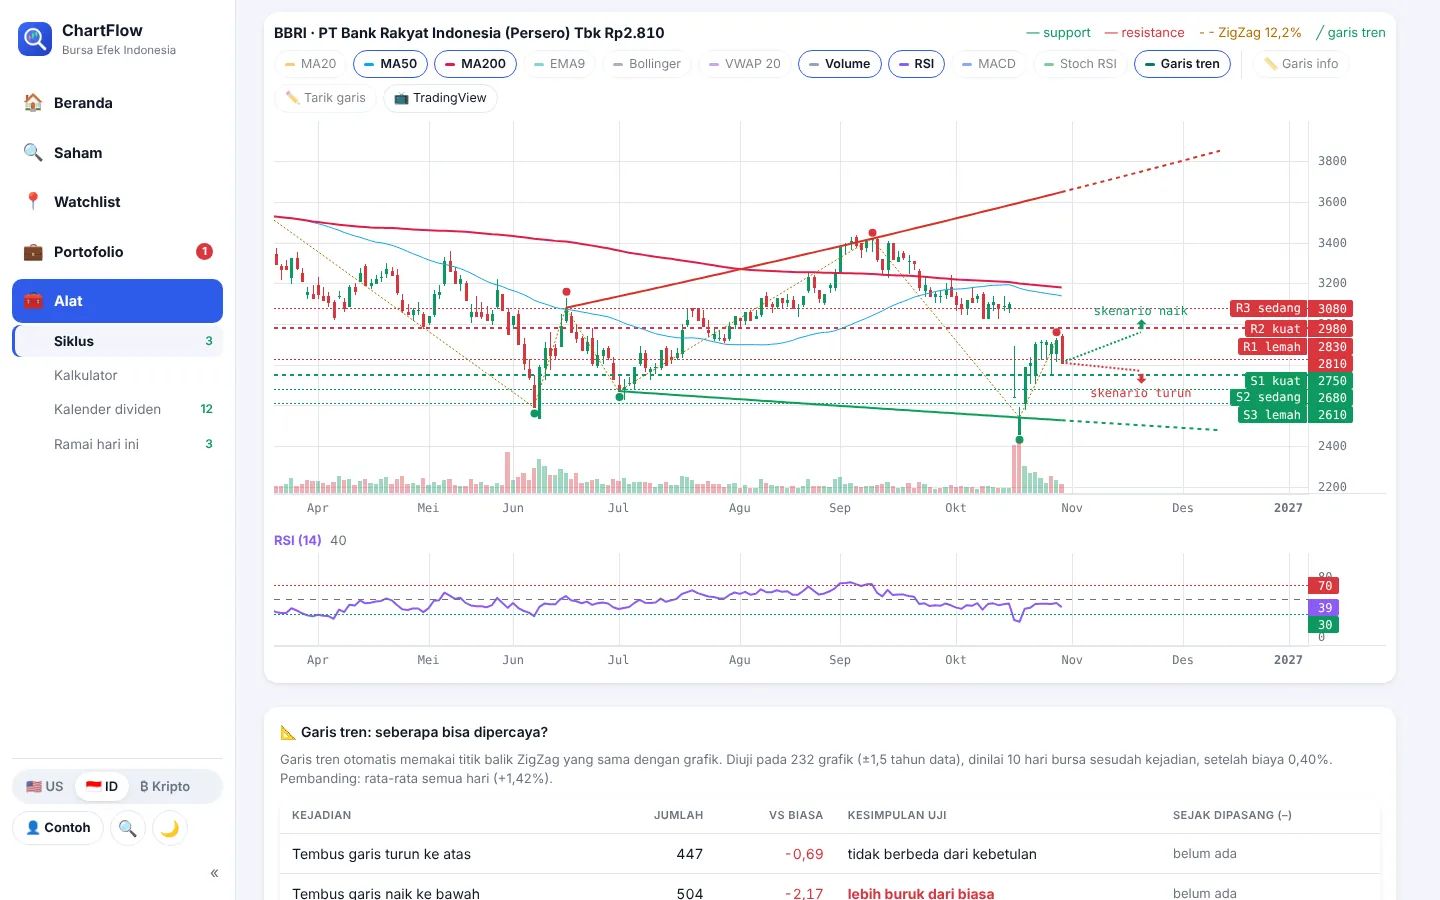
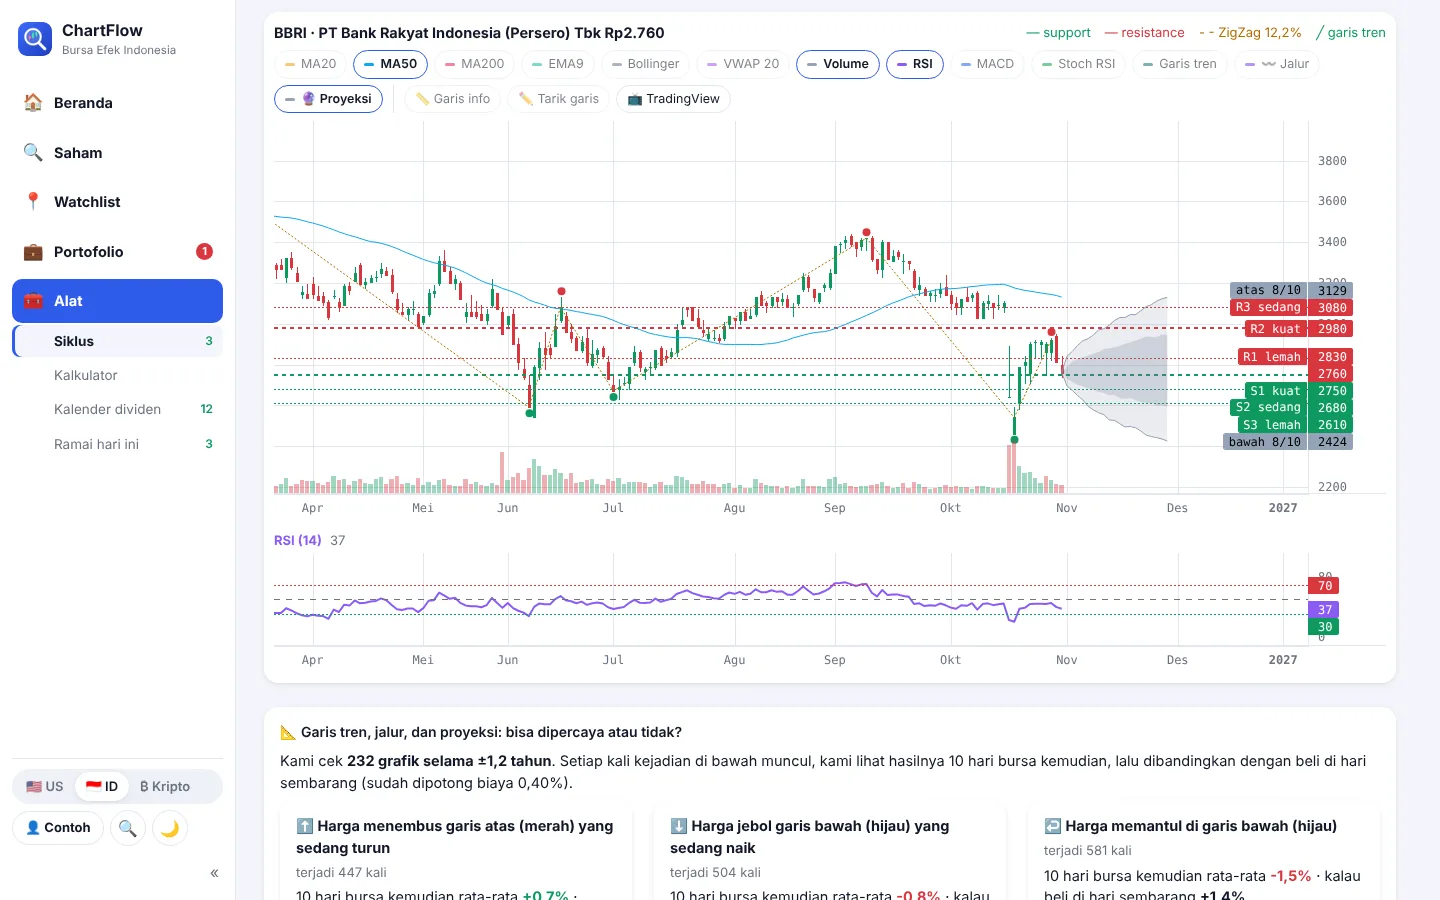
Grafik ke depan lebih rapi: satu gambaran sekali waktu, proyeksi jadi pita
Claude-Session: https://claude.ai/code/session_012CAGJkYUHsEMWwfJLfAKuZ

diff --git a/index.html b/index.html
@@ -789,8 +789,11 @@ function crossed(a,b,k=3){ // 1 = a memotong ke atas b dalam k bar terakhir, -1 
     if(a[i-1]<=b[i-1]&&a[i]>b[i]) return 1; if(a[i-1]>=b[i-1]&&a[i]<b[i]) return -1; } return 0; }
 const IND=[["ma20","MA20","#f59e0b",1],["ma50","MA50","#0ea5e9",1],["ma200","MA200","#e11d48",1],["ema9","EMA9","#14b8a6",0],["bb","Bollinger","#64748b",0],["vwap","VWAP 20","#a855f7",0],
   ["vol","Volume","#94a3b8",1],["rsi","RSI","#8b5cf6",1],["macd","MACD","#2563eb",0],["srsi","Stoch RSI","#16a34a",0],["trend","Garis tren","#0f766e",1],["path","〰 Jalur","#7c3aed",0],["proj","🔮 Proyeksi","#94a3b8",0]];
+const FX=["trend","path","proj"]; // gambaran ke depan: hanya satu yang tampil
 function indOn(){ let s=null; try{ s=JSON.parse(store.get(WP+"ind")||"null"); }catch(e){}
-  if(Array.isArray(s)&&!store.get(WP+"ind.tr")){ if(!s.includes("trend")) s.push("trend"); store.set(WP+"ind",JSON.stringify(s)); store.set(WP+"ind.tr","1"); } return new Set(s||IND.filter(x=>x[3]).map(x=>x[0])); }
+  if(Array.isArray(s)&&!store.get(WP+"ind.tr")){ if(!s.includes("trend")) s.push("trend"); store.set(WP+"ind",JSON.stringify(s)); store.set(WP+"ind.tr","1"); }
+  s=s||IND.filter(x=>x[3]).map(x=>x[0]); const f=s.filter(k=>FX.includes(k)); if(f.length>1){ const keep=f[f.length-1]; s=s.filter(k=>!FX.includes(k)||k===keep); store.set(WP+"ind",JSON.stringify(s)); }
+  return new Set(s); }
 const OHLC={};
 const OHLCP={};
 function warmCharts(ts){ const go=()=>{ try{ loadSer(); loadLWC().catch(()=>{}); (ts||[]).slice(0,12).forEach(t=>loadOhlc(t)); }catch(e){} };
@@ -831,7 +834,7 @@ function tlFrom(piv,T,typ){ // garis lurus (skala log) lewat 2 titik balik terak
   const k=(Math.log(p2.v)-Math.log(p1.v))/(p2.i-p1.i);
   return {p1,p2,rising:p2.v>p1.v,at:i=>Math.exp(Math.log(p1.v)+k*(i-p1.i))}; }
 function trendDraw(ch,T,C,fut,a,good,bad,pf){
-  const n=T.length, F=fut.slice(0,30), out={up:tlFrom(a.piv,T,"L"),dn:tlFrom(a.piv,T,"H")};
+  const n=T.length, F=fut.slice(0,5), out={up:tlFrom(a.piv,T,"L"),dn:tlFrom(a.piv,T,"H")};
   const opt={lineWidth:2,priceLineVisible:false,lastValueVisible:false,crosshairMarkerVisible:false,priceFormat:pf,autoscaleInfoProvider:()=>null};
   const seg=(ln,color)=>{ if(!ln) return;
     ch.addLineSeries({...opt,color}).setData(T.slice(ln.p1.i).map((t,j)=>({time:t,value:ln.at(ln.p1.i+j)})));
@@ -839,13 +842,11 @@ function trendDraw(ch,T,C,fut,a,good,bad,pf){
   seg(out.up,"#0f9d58"); seg(out.dn,"#d93025");
   const cross=(ln,dir)=>{ if(!ln) return null; for(let i=n-1;i>=Math.max(1,n-3);i--){ const a0=ln.at(i-1),a1=ln.at(i); if(dir>0?(C[i-1]<=a0&&C[i]>a1):(C[i-1]>=a0&&C[i]<a1)) return n-1-i; } return null; };
   out.brkUp=out.dn&&!out.dn.rising?cross(out.dn,1):null; out.brkDn=out.up&&out.up.rising?cross(out.up,-1):null; // sama dengan yang diuji
-  const p=C[n-1], h=Math.min(15,F.length);
+  const p=C[n-1], h=Math.min(15,fut.length);
   if(h>=3){ const R1=(a.res||[]).find(z=>z.strength!=="lemah"&&z.lo>p*1.005), S1=(a.sup||[]).find(z=>z.hi<p*0.995);
     let tu=out.dn&&out.dn.at(n-1+h)>p*1.01?out.dn.at(n-1+h):null; if(R1&&(!tu||R1.lo<tu)) tu=R1.lo;
     let td=out.up&&out.up.at(n-1+h)<p*0.99?out.up.at(n-1+h):null; if(S1&&(!td||S1.hi>td)) td=S1.hi;
-    const arrow=(v,color,up,txt)=>{ if(v==null) return; const z=ch.addLineSeries({...opt,color,lineStyle:1});
-      z.setData([{time:T[n-1],value:p},{time:F[h-1],value:v}]); z.setMarkers([{time:F[h-1],position:up?"aboveBar":"belowBar",color,shape:up?"arrowUp":"arrowDown",text:txt}]); };
-    arrow(tu,good,true,"skenario naik"); arrow(td,bad,false,"skenario turun"); out.tu=tu; out.td=td; }
+    out.tu=tu; out.td=td; }
   return out; }
 function pathCalc(T,C,fut,a,rs){
   const P=(TRS||{}).path, n=T.length, p=C[n-1]; if(fut.length<10) return null;
@@ -877,30 +878,33 @@ function projCalc(B,T,fut,a,pt,key){
   const paths=[], ends=[]; for(let m=0;m<M;m++){ let v=0; const ix=[], cum=[]; for(let h=0;h<H;h++){ const j=Math.floor(rnd()*lr.length); v+=lr[j][0]-mu; ix.push(lr[j][1]); cum.push(v); } paths.push({ix,cum}); }
   const q=(arr,f)=>{ const s=arr.slice().sort((x,y)=>x-y); return s[Math.min(s.length-1,Math.floor(f*s.length))]; };
   const band=[]; for(let h=0;h<H;h++){ const col=paths.map(x=>x.cum[h]); band.push([.1,.25,.5,.75,.9].map(f=>p*Math.exp(q(col,f)))); }
-  // contoh jalur candle: yang paling mirip 〰 Jalur (kalau ada), selain itu yang paling dekat median
-  let best=null, be=1e9;
-  paths.forEach(x=>{ let e=0;
-    if(pt){ [1,2].forEach(k=>{ const i=fut.indexOf(pt.main[k][0]); if(i>=0&&i<H) e+=(x.cum[i]-Math.log(pt.main[k][1]/p))**2; else if(i>=H) e+=(x.cum[H-1]-Math.log(pt.main[k][1]/p))**2*0.5; }); }
-    else e=(x.cum[H-1]-Math.log(band[H-1][2]/p))**2;
-    if(e<be){ be=e; best=x; } });
-  let prev=p; const ghost=best.ix.map((j,h)=>{ const b=B[j], pc=B[j-1][4], f=prev/pc*Math.exp(-mu*(h+1)+0); const s=Math.exp(-mu);
-    const o=b[1]/pc*prev*s, hi=b[2]/pc*prev*s, lo=b[3]/pc*prev*s, c=b[4]/pc*prev*s; prev=c; return [fut[h],o,Math.max(hi,o,c),Math.min(lo,o,c),c]; });
   const endP=paths.map(x=>p*Math.exp(x.cum[H-1])), R1=(a.res||[]).find(z=>z.strength!=="lemah"&&z.lo>p), S1=(a.sup||[]).find(z=>z.strength!=="lemah"&&z.hi<p);
-  return {H,band,ghost,end:fut[H-1],pUp:R1?endP.filter(v=>v>=R1.lo).length/M*100:null,R1,pDn:S1?endP.filter(v=>v<=S1.hi).length/M*100:null,S1}; }
-function projDraw(ch,B,T,fut,a,pf,pt,key,good,bad){
-  const pr=projCalc(B,T,fut,a,pt,key); if(!pr) return null; const n=T.length, p=B[n-1][4];
+  return {H,band,end:fut[H-1],pUp:R1?endP.filter(v=>v>=R1.lo).length/M*100:null,R1,pDn:S1?endP.filter(v=>v<=S1.hi).length/M*100:null,S1}; }
+function projDraw(ch,el,B,T,fut,a,pf,key){
+  const pr=projCalc(B,T,fut,a,null,key); if(!pr) return null; const n=T.length, p=B[n-1][4];
   const base={priceLineVisible:false,lastValueVisible:false,crosshairMarkerVisible:false,priceFormat:pf,autoscaleInfoProvider:()=>null};
-  const ln=(k,color,w,st,title)=>ch.addLineSeries({...base,color,lineWidth:w,lineStyle:st,lastValueVisible:true,title}).setData([{time:T[n-1],value:p}].concat(pr.band.map((b,h)=>({time:fut[h],value:b[k]}))));
-  ln(0,"#94a3b8",1,2,"bawah 8/10"); ln(4,"#94a3b8",1,2,"atas 8/10"); ln(1,"#64748b",1,0,"bawah 5/10"); ln(3,"#64748b",1,0,"atas 5/10");
-  const g=ch.addCandlestickSeries({...base,upColor:good+"80",downColor:bad+"80",borderUpColor:good+"cc",borderDownColor:bad+"cc",wickUpColor:good+"cc",wickDownColor:bad+"cc"});
-  g.setData(pr.ghost.map(x=>({time:x[0],open:x[1],high:x[2],low:x[3],close:x[4]})));
-  g.setMarkers([{time:pr.ghost[pr.ghost.length-1][0],position:"aboveBar",color:"#64748b",shape:"circle",text:"contoh"}]);
+  const pts=[[T[n-1],[p,p,p,p,p]]].concat(pr.band.map((b,h)=>[fut[h],b]));
+  const ln=(k,title)=>{ const z=ch.addLineSeries({...base,color:"#94a3b8",lineWidth:1,lastValueVisible:true,title}); z.setData(pts.map(([t,b])=>({time:t,value:b[k]}))); return z; };
+  const s=ln(0,"bawah 8/10"); ln(4,"atas 8/10");
+  // pita: terang = 8 dari 10, gelap = 5 dari 10
+  el.querySelectorAll(".pj-cv").forEach(x=>x.remove()); el.style.position="relative";
+  const cv=document.createElement("canvas"); cv.className="pj-cv"; cv.style.cssText="position:absolute;left:0;top:0;pointer-events:none;z-index:2"; el.appendChild(cv);
+  let sig=""; const ts=ch.timeScale();
+  const paint=()=>{ if(!cv.isConnected) return; requestAnimationFrame(paint);
+    let xy; try{ xy=pts.map(([t,b])=>[ts.timeToCoordinate(t),b.map(v=>s.priceToCoordinate(v))]); }catch(e){ return; }
+    const w=ts.width(), hgt=el.clientHeight, k=w+"|"+hgt+"|"+xy.map(q=>q[0]+","+q[1][0]+","+q[1][4]).join(";"); if(k===sig) return; sig=k;
+    const dpr=window.devicePixelRatio||1; cv.width=w*dpr; cv.height=hgt*dpr; cv.style.width=w+"px"; cv.style.height=hgt+"px";
+    const g=cv.getContext("2d"); g.setTransform(dpr,0,0,dpr,0,0); g.clearRect(0,0,w,hgt);
+    const ok=xy.filter(q=>q[0]!=null&&q[1].every(v=>v!=null)); if(ok.length<2) return;
+    const poly=(lo,hi,col)=>{ g.beginPath(); ok.forEach((q,i)=>g[i?"lineTo":"moveTo"](q[0],q[1][hi])); ok.slice().reverse().forEach(q=>g.lineTo(q[0],q[1][lo])); g.closePath(); g.fillStyle=col; g.fill(); };
+    poly(0,4,"rgba(100,116,139,.13)"); poly(1,3,"rgba(100,116,139,.22)"); };
+  paint();
   return pr; }
 function projTxt(pr,f){ if(!pr) return ""; const e=pr.band[pr.H-1], C=(TRS||{}).cone;
   return `<b>🔮 Perkiraan ${pr.H} hari bursa ke depan</b> (sampai sekitar ${tgl(pr.end)}):<br>
     • <b>Hampir pasti</b> (8 dari 10 kemungkinan) harga ada di antara <b>${f(e[0])}</b> dan <b>${f(e[4])}</b>.<br>
     • <b>Paling mungkin</b> (5 dari 10) di antara ${f(e[1])} dan ${f(e[3])}.${pr.R1&&pr.pUp!=null?`<br>• Peluang naik melewati R1 ${f(pr.R1.lo)}: <b>${nf(pr.pUp,0)} dari 100</b>.`:""}${pr.S1&&pr.pDn!=null?`<br>• Peluang turun di bawah S1 ${f(pr.S1.hi)}: <b>${nf(pr.pDn,0)} dari 100</b>.`:""}
-    <br>Candle samar di grafik hanya <b>contoh gerakan</b>, bukan tebakan pasti.${C&&C.c80?` ✔ Perkiraan seperti ini sudah dicek ke masa lalu: sekitar <b>${Math.round(C.c80["20"]/10)} dari 10</b> kali harga memang berakhir di rentang “hampir pasti”.`:""}`; }
+    <br>Di grafik: <b>area abu-abu terang</b> = rentang “hampir pasti”, <b>area lebih gelap</b> = rentang “paling mungkin”. Proyeksi tidak menebak arah naik atau turun.${C&&C.c80?` ✔ Perkiraan seperti ini sudah dicek ke masa lalu: sekitar <b>${Math.round(C.c80["20"]/10)} dari 10</b> kali harga memang berakhir di rentang “hampir pasti”.`:""}`; }
 function pathTxt(pt,f){ if(!pt) return ""; const P=(TRS||{}).path;
   return `<b>〰 Jalur:</b> gambaran kalau harga <b>${pt.dir>0?"naik":"turun"} dulu ke ${f(pt.main[1][1])}</b> (sekitar ${tgl(pt.main[1][0])}), lalu <b>${pt.dir>0?"turun":"naik"} ke ${f(pt.main[2][1])}</b> (sekitar ${tgl(pt.main[2][0])}). Garis ungu tipis = kemungkinan sebaliknya.${pt.acc!=null?` ⚠ Arah “${pt.dir>0?"naik":"turun"} dulu” ini hanya tebakan: di masa lalu tebakan seperti ini benar <b>${nf(pt.acc,0)} dari 100</b> kali, hampir sama dengan lempar koin.`:""}`; }
 const TRN={brk_up:"⬆ Harga menembus garis atas (merah) yang sedang turun",brk_dn:"⬇ Harga jebol garis bawah (hijau) yang sedang naik",touch_up:"↩ Harga memantul di garis bawah (hijau)",touch_dn:"✋ Harga tertolak di garis atas (merah)"};
@@ -993,6 +997,7 @@ function ilBar(){ const b=$("ilBtn"), c=$("ilClr"), tb=$("tlBtn"); if(b){ b.setA
 function drawChart(el, dates, vals, a, rawan, future, idr, opt){
   pxObs.forEach(o=>o.disconnect()); pxObs=[];
   pxCharts.forEach(c=>{try{c.remove()}catch(e){}}); pxCharts=[];
+  if(el) el.querySelectorAll(".pj-cv").forEach(x=>x.remove());
   const L=window.LightweightCharts; if(!L||!vals) return;
   opt=opt||{};
   const muted=cssVar("--muted"), line=cssVar("--line"), acc=cssVar("--accent"), good=cssVar("--good"), bad=cssVar("--bad"), warn=cssVar("--warn");
@@ -1035,7 +1040,7 @@ function drawChart(el, dates, vals, a, rawan, future, idr, opt){
   (a.res||[]).forEach((z,i)=>{ s.createPriceLine({price:z.mid,color:bad,lineWidth:z.strength==="kuat"?2:1,lineStyle:2,axisLabelVisible:true,title:`R${i+1} ${z.strength}`}); });
   if(on.has("trend")) x.trend=trendDraw(ch,T,C,fut,a,good,bad,pf);
   if(on.has("path")) x.path=pathDraw(ch,T,C,fut,a,pf,x.rsi);
-  if(on.has("proj")&&candle) x.proj=projDraw(ch,B,T,fut,a,pf,x.path||pathCalc(T,C,fut,a,x.rsi),opt.dkey||"",good,bad);
+  if(on.has("proj")&&candle) x.proj=projDraw(ch,el,B,T,fut,a,pf,opt.dkey||"");
   ch.timeScale().setVisibleLogicalRange({from:Math.max(0,B.length-150),to:B.length+fut.length});
   watchSize(ch,el,pxObs);
   infoLines(ch,s,T.concat(fut),el,opt.dkey,idr);
@@ -1144,7 +1149,8 @@ function renderCycles(box){
   $("indBar").addEventListener("click",ev=>{ if(ev.target.closest("#tvBtn")){ const on=!$("cyBox").classList.contains("tv-on"); store.set(WP+"tv",on?"1":"0"); tvSet(on); return; } if(ev.target.closest("#ilBtn")){ IL_MODE=IL_MODE===true?false:true; if(!IL_MODE&&window.__ilCancel) window.__ilCancel(); ilBar(); return; }
     if(ev.target.closest("#tlBtn")){ IL_MODE=IL_MODE==="tl"?false:"tl"; if(!IL_MODE&&window.__ilCancel) window.__ilCancel(); ilBar(); return; }
     if(ev.target.closest("#ilClr")){ if(window.__ilClear) window.__ilClear(); return; }
-    const bt=ev.target.closest("[data-ind]"); if(!bt) return; const on=indOn(), k=bt.dataset.ind; on.has(k)?on.delete(k):on.add(k); store.set(WP+"ind",JSON.stringify([...on])); bt.setAttribute("aria-pressed",on.has(k)); draw(); });
+    const bt=ev.target.closest("[data-ind]"); if(!bt) return; const on=indOn(), k=bt.dataset.ind; if(on.has(k)) on.delete(k); else { on.add(k); if(FX.includes(k)) FX.forEach(o=>{ if(o!==k) on.delete(o); }); }
+    store.set(WP+"ind",JSON.stringify([...on])); $("indBar").querySelectorAll("[data-ind]").forEach(b=>b.setAttribute("aria-pressed",on.has(b.dataset.ind))); draw(); });
   Promise.all([loadLWC(),loadOhlc(sel),loadTrendStats()]).then(([,bb])=>{ if(tab!=="cycles") return; bars=bb; draw(); { const tb=$("trBox"); if(tb) tb.innerHTML=trendCard(); } if(store.get(WP+"tv")==="1") tvSet(true); if(b) drawBreadth($("cyBreadth"),b); })
     .catch(()=>{ $("cyChart").innerHTML=`<p class="note">Grafik tidak bisa dimuat (pustaka grafik gagal diunduh).</p>`; });
 }

diff --git a/chartflow/public/index.html b/chartflow/public/index.html
@@ -249,7 +249,7 @@ input.code{font-size:22px;letter-spacing:.18em;text-align:center;text-transform:
   <h3 class="grp">🎯 Menentukan harga</h3>
   <div class="grid">
     <div class="card"><div class="e">📍</div><h3>Area beli</h3><p>Harga beli, batas rugi, dan target menurut aturan, dari zona support terdekat. Hanya yang calon untungnya minimal 2× calon rugi.</p></div>
-    <div class="card"><div class="e">🕯</div><h3>Grafik & 8 indikator</h3><p>Candlestick dan volume dengan MA 20/50/200, EMA, Bollinger, VWAP, RSI, MACD, dan Stochastic RSI, masing-masing dengan bacaan otomatis. Ada garis tren otomatis dengan dua skenario arah (naik dan turun), jalur zigzag ke depan (ke mana dulu, lalu ke mana), proyeksi candle dengan pita kemungkinan 50% dan 80%, beserta catatan seberapa sering tebakan dan pita itu benar, alat untuk menarik garis tren dan Garis info sendiri, serta tombol TradingView.</p></div>
+    <div class="card"><div class="e">🕯</div><h3>Grafik & 8 indikator</h3><p>Candlestick dan volume dengan MA 20/50/200, EMA, Bollinger, VWAP, RSI, MACD, dan Stochastic RSI, masing-masing dengan bacaan otomatis. Ada garis tren otomatis dengan dua skenario arah (naik dan turun), jalur zigzag ke depan (ke mana dulu, lalu ke mana), dan proyeksi harga berupa pita kemungkinan 5 dari 10 dan 8 dari 10; satu gambaran ke depan tampil sekali waktu supaya grafik tetap rapi, beserta catatan seberapa sering tebakan dan pita itu benar, alat untuk menarik garis tren dan Garis info sendiri, serta tombol TradingView.</p></div>
     <div class="card"><div class="e">📈</div><h3>Zona support & resistance</h3><p>Dari Fibonacci, titik balik, rata-rata bergerak, dan angka bulat. Setiap unsur diuji: mana yang terbukti, mana yang tidak.</p></div>
     <div class="card"><div class="e">🧮</div><h3>Kalkulator lot</h3><p>Berapa lot, rugi bila kena batas rugi, untung di target, dan harga impas setelah biaya.</p></div>
   </div>
